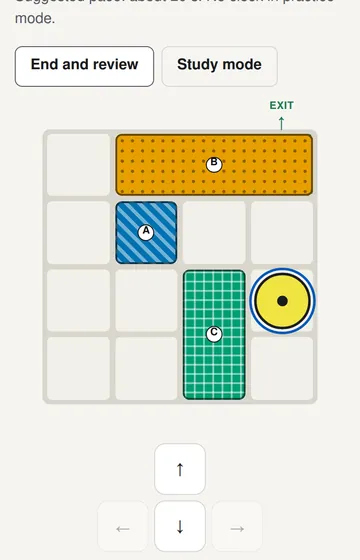
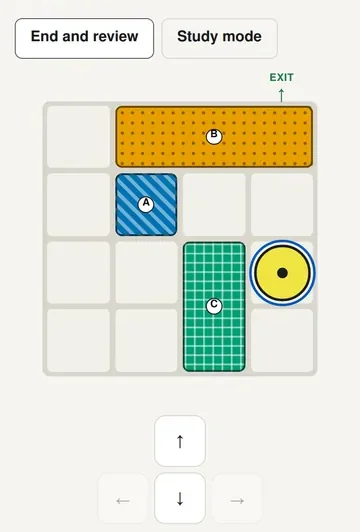
home: crop CogPrep board image, number refresh

diff --git a/work/usage/index.html b/work/usage/index.html
@@ -188,7 +188,7 @@
     <p class="deck">Every token my agents read, cached, and generated across 9router, Hermes direct Claude, and Claude Code transcripts.</p>
 
     <div class="panel telemetry-bar">
-      <p class="small muted">Last probed: <span class="mono">2026-10-18T18:11:42Z</span> &middot; Tracking window: <span class="mono">2026-09-13</span> to <span class="mono">2026-10-18</span> (<span class="mono">36</span> days). The window starts on 2026-09-13, the first day any source logged tokens.</p>
+      <p class="small muted">Last probed: <span class="mono">2026-10-18T18:23:46Z</span> &middot; Tracking window: <span class="mono">2026-09-13</span> to <span class="mono">2026-10-18</span> (<span class="mono">36</span> days). The window starts on 2026-09-13, the first day any source logged tokens.</p>
     </div>
 
     <!-- Hero Stats Row -->
@@ -202,11 +202,11 @@
         <span class="stat-lbl">Prompt cache hit rate</span>
       </div>
       <div class="stat-item">
-        <span class="stat-val">57.1 M</span>
+        <span class="stat-val">57.2 M</span>
         <span class="stat-lbl">Generated output (0.60%)</span>
       </div>
       <div class="stat-item">
-        <span class="stat-val">$4,123.86</span>
+        <span class="stat-val">$4,123.90</span>
         <span class="stat-lbl">List price equivalent (USD)</span>
       </div>
     </div>
@@ -237,7 +237,7 @@
           </div>
           <div class="comp-legend-item">
             <span class="comp-legend-swatch comp-legend-swatch--output" aria-hidden="true"></span>
-            <div class="comp-legend-text"><span class="lbl">Output</span> <span class="val">57.1 M</span> <span class="share">0.60%</span></div>
+            <div class="comp-legend-text"><span class="lbl">Output</span> <span class="val">57.2 M</span> <span class="share">0.60%</span></div>
           </div>
         </div>
       </div>
@@ -258,7 +258,7 @@
           <tbody>
           <tr>
             <th scope="row">Fresh input</th>
-            <td class="mono">725,188,826</td>
+            <td class="mono">725,193,649</td>
             <td class="mono">7.64%</td>
             <td>Tokens sent to models without a provider cache hit</td>
           </tr>
@@ -276,13 +276,13 @@
           </tr>
           <tr>
             <th scope="row">Output</th>
-            <td class="mono">57,147,656</td>
+            <td class="mono">57,150,187</td>
             <td class="mono">0.60%</td>
             <td>Generated completion tokens (includes 4,253,496 reasoning tokens on supported models)</td>
           </tr>
           <tr class="table-total">
             <th scope="row">Total</th>
-            <td class="mono">9,488,234,158</td>
+            <td class="mono">9,488,241,512</td>
             <td class="mono">100.00%</td>
             <td>Exact integer sum across all four components</td>
           </tr>
@@ -317,14 +317,14 @@
           <tr>
             <th scope="row">9router proxy</th>
             <td>Gemini Flash, Claude Sonnet and a few other models over an OpenAI style API</td>
-            <td class="mono">78,046</td>
-            <td class="mono">724,113,941</td>
+            <td class="mono">78,054</td>
+            <td class="mono">724,118,764</td>
             <td class="mono">5,735,695,266</td>
             <td class="mono">0</td>
-            <td class="mono">33,979,263</td>
-            <td class="mono">6,493,788,470</td>
+            <td class="mono">33,981,794</td>
+            <td class="mono">6,493,795,824</td>
             <td class="mono">88.8%</td>
-            <td class="mono">$2,305.41</td>
+            <td class="mono">$2,305.45</td>
           </tr>
           <tr>
             <th scope="row">Hermes direct</th>
@@ -353,14 +353,14 @@
           <tr class="table-total">
             <th scope="row">Total</th>
             <td>All three telemetry streams combined</td>
-            <td class="mono">95,315</td>
-            <td class="mono">725,188,826</td>
+            <td class="mono">95,323</td>
+            <td class="mono">725,193,649</td>
             <td class="mono">8,486,365,862</td>
             <td class="mono">219,531,814</td>
-            <td class="mono">57,147,656</td>
-            <td class="mono">9,488,234,158</td>
+            <td class="mono">57,150,187</td>
+            <td class="mono">9,488,241,512</td>
             <td class="mono">90.0%</td>
-            <td class="mono">$4,123.86</td>
+            <td class="mono">$4,123.90</td>
           </tr>
           </tbody>
         </table>
@@ -396,15 +396,15 @@
           <tr>
             <th scope="row">Gemini Flash</th>
             <td>ninerouter</td>
-            <td class="mono">72,935</td>
-            <td class="mono">677,875,594</td>
+            <td class="mono">72,943</td>
+            <td class="mono">677,880,417</td>
             <td class="mono">5,469,428,755</td>
             <td class="mono">n/r</td>
-            <td class="mono">32,311,204</td>
-            <td class="mono">6,179,615,553</td>
+            <td class="mono">32,313,735</td>
+            <td class="mono">6,179,622,907</td>
             <td class="mono">65.13%</td>
             <td class="mono">89.0%</td>
-            <td class="mono">$2,086.66</td>
+            <td class="mono">$2,086.69</td>
           </tr>
           <tr>
             <th scope="row">Claude Opus</th>
@@ -487,15 +487,15 @@
           <tr class="table-total">
             <th scope="row">Total</th>
             <td>All model families combined</td>
-            <td class="mono">95,315</td>
-            <td class="mono">725,188,826</td>
+            <td class="mono">95,323</td>
+            <td class="mono">725,193,649</td>
             <td class="mono">8,486,365,862</td>
             <td class="mono">219,531,814</td>
-            <td class="mono">57,147,656</td>
-            <td class="mono">9,488,234,158</td>
+            <td class="mono">57,150,187</td>
+            <td class="mono">9,488,241,512</td>
             <td class="mono">100.00%</td>
             <td class="mono">90.0%</td>
-            <td class="mono">$4,123.86</td>
+            <td class="mono">$4,123.90</td>
           </tr>
           </tbody>
         </table>
@@ -520,7 +520,7 @@
         </tr>
       </thead>
       <tbody>
-        <tr><th scope="row" aria-hidden="true">Mon</th><td class="is-void" aria-hidden="true"></td><td data-date="2026-09-14" data-value="0" data-level="0" data-detail="Mon 14 Sep &middot; 0 total &middot; fresh 0 &middot; cached 0 &middot; write 0 &middot; output 0 &middot; 0 calls" role="gridcell" aria-label="Mon 14 Sep: 0 tokens"></td><td data-date="2026-09-21" data-value="53629920" data-level="1" data-detail="Mon 21 Sep &middot; 53.6M total &middot; fresh 9.8M &middot; cached 43.1M &middot; write 223.1k &middot; output 591.6k &middot; 1,272 calls" role="gridcell" aria-label="Mon 21 Sep: 53.6 M tokens"></td><td data-date="2026-09-28" data-value="340072182" data-level="3" data-detail="Mon 28 Sep &middot; 340.1M total &middot; fresh 45.9M &middot; cached 291.3M &middot; write 335.2k &middot; output 2.5M &middot; 3,229 calls" role="gridcell" aria-label="Mon 28 Sep: 340.1 M tokens"></td><td data-date="2026-10-05" data-value="498170107" data-level="4" data-detail="Mon 5 Oct &middot; 498.2M total &middot; fresh 41.3M &middot; cached 447.4M &middot; write 6.6M &middot; output 2.8M &middot; 4,031 calls" role="gridcell" aria-label="Mon 5 Oct: 498.2 M tokens"></td><td data-date="2026-10-12" data-value="388531630" data-level="3" data-detail="Mon 12 Oct &middot; 388.5M total &middot; fresh 33.3M &middot; cached 354.2M &middot; write 0 &middot; output 1.0M &middot; 4,583 calls" role="gridcell" aria-label="Mon 12 Oct: 388.5 M tokens"></td></tr><tr><th scope="row" aria-hidden="true"></th><td class="is-void" aria-hidden="true"></td><td data-date="2026-09-15" data-value="11274" data-level="1" data-detail="Tue 15 Sep &middot; 11.3k total &middot; fresh 4.7k &middot; cached 4.1k &middot; write 0 &middot; output 2.5k &middot; 12 calls" role="gridcell" aria-label="Tue 15 Sep: 11,274 tokens"></td><td data-date="2026-09-22" data-value="171300441" data-level="2" data-detail="Tue 22 Sep &middot; 171.3M total &middot; fresh 26.8M &middot; cached 142.2M &middot; write 174.1k &middot; output 2.1M &middot; 2,337 calls" role="gridcell" aria-label="Tue 22 Sep: 171.3 M tokens"></td><td data-date="2026-09-29" data-value="191055436" data-level="2" data-detail="Tue 29 Sep &middot; 191.1M total &middot; fresh 21.5M &middot; cached 167.9M &middot; write 247.0k &middot; output 1.4M &middot; 2,153 calls" role="gridcell" aria-label="Tue 29 Sep: 191.1 M tokens"></td><td data-date="2026-10-06" data-value="593322083" data-level="4" data-detail="Tue 6 Oct &middot; 593.3M total &middot; fresh 49.4M &middot; cached 539.5M &middot; write 1.7M &middot; output 2.7M &middot; 6,964 calls" role="gridcell" aria-label="Tue 6 Oct: 593.3 M tokens"></td><td data-date="2026-10-13" data-value="589855580" data-level="4" data-detail="Tue 13 Oct &middot; 589.9M total &middot; fresh 80.3M &middot; cached 507.3M &middot; write 217.1k &middot; output 2.1M &middot; 8,837 calls" role="gridcell" aria-label="Tue 13 Oct: 589.9 M tokens"></td></tr><tr><th scope="row" aria-hidden="true">Wed</th><td class="is-void" aria-hidden="true"></td><td data-date="2026-09-16" data-value="40822997" data-level="1" data-detail="Wed 16 Sep &middot; 40.8M total &middot; fresh 11.5M &middot; cached 29.2M &middot; write 0 &middot; output 169.4k &middot; 735 calls" role="gridcell" aria-label="Wed 16 Sep: 40.8 M tokens"></td><td data-date="2026-09-23" data-value="199928362" data-level="2" data-detail="Wed 23 Sep &middot; 199.9M total &middot; fresh 23.2M &middot; cached 168.8M &middot; write 6.5M &middot; output 1.4M &middot; 1,765 calls" role="gridcell" aria-label="Wed 23 Sep: 199.9 M tokens"></td><td data-date="2026-09-30" data-value="169857417" data-level="2" data-detail="Wed 30 Sep &middot; 169.9M total &middot; fresh 7.4M &middot; cached 146.7M &middot; write 14.2M &middot; output 1.5M &middot; 1,993 calls" role="gridcell" aria-label="Wed 30 Sep: 169.9 M tokens"></td><td data-date="2026-10-07" data-value="761531053" data-level="4" data-detail="Wed 7 Oct &middot; 761.5M total &middot; fresh 50.2M &middot; cached 682.6M &middot; write 25.4M &middot; output 3.4M &middot; 8,321 calls" role="gridcell" aria-label="Wed 7 Oct: 761.5 M tokens"></td><td data-date="2026-10-14" data-value="30484055" data-level="1" data-detail="Wed 14 Oct &middot; 30.5M total &middot; fresh 2.9M &middot; cached 27.5M &middot; write 92.0k &middot; output 69.8k &middot; 516 calls" role="gridcell" aria-label="Wed 14 Oct: 30.5 M tokens"></td></tr><tr><th scope="row" aria-hidden="true"></th><td class="is-void" aria-hidden="true"></td><td data-date="2026-09-17" data-value="65046308" data-level="2" data-detail="Thu 17 Sep &middot; 65.0M total &middot; fresh 15.8M &middot; cached 49.0M &middot; write 0 &middot; output 192.2k &middot; 721 calls" role="gridcell" aria-label="Thu 17 Sep: 65.0 M tokens"></td><td data-date="2026-09-24" data-value="154884930" data-level="2" data-detail="Thu 24 Sep &middot; 154.9M total &middot; fresh 16.4M &middot; cached 135.8M &middot; write 1.6M &middot; output 1.1M &middot; 2,165 calls" role="gridcell" aria-label="Thu 24 Sep: 154.9 M tokens"></td><td data-date="2026-10-01" data-value="217602879" data-level="3" data-detail="Thu 1 Oct &middot; 217.6M total &middot; fresh 14.6M &middot; cached 191.5M &middot; write 9.5M &middot; output 2.1M &middot; 2,406 calls" role="gridcell" aria-label="Thu 1 Oct: 217.6 M tokens"></td><td data-date="2026-10-08" data-value="448012349" data-level="4" data-detail="Thu 8 Oct &middot; 448.0M total &middot; fresh 26.5M &middot; cached 412.1M &middot; write 6.6M &middot; output 2.8M &middot; 4,266 calls" role="gridcell" aria-label="Thu 8 Oct: 448.0 M tokens"></td><td data-date="2026-10-15" data-value="279066240" data-level="3" data-detail="Thu 15 Oct &middot; 279.1M total &middot; fresh 3.5M &middot; cached 266.1M &middot; write 7.4M &middot; output 2.0M &middot; 2,525 calls" role="gridcell" aria-label="Thu 15 Oct: 279.1 M tokens"></td></tr><tr><th scope="row" aria-hidden="true">Fri</th><td class="is-void" aria-hidden="true"></td><td data-date="2026-09-18" data-value="48685117" data-level="1" data-detail="Fri 18 Sep &middot; 48.7M total &middot; fresh 11.6M &middot; cached 36.6M &middot; write 0 &middot; output 471.2k &middot; 1,205 calls" role="gridcell" aria-label="Fri 18 Sep: 48.7 M tokens"></td><td data-date="2026-09-25" data-value="78410341" data-level="2" data-detail="Fri 25 Sep &middot; 78.4M total &middot; fresh 12.5M &middot; cached 65.2M &middot; write 60.0k &middot; output 659.0k &middot; 1,122 calls" role="gridcell" aria-label="Fri 25 Sep: 78.4 M tokens"></td><td data-date="2026-10-02" data-value="389944886" data-level="3" data-detail="Fri 2 Oct &middot; 389.9M total &middot; fresh 40.2M &middot; cached 336.1M &middot; write 10.0M &middot; output 3.6M &middot; 3,593 calls" role="gridcell" aria-label="Fri 2 Oct: 389.9 M tokens"></td><td data-date="2026-10-09" data-value="386147332" data-level="3" data-detail="Fri 9 Oct &middot; 386.1M total &middot; fresh 20.7M &middot; cached 356.6M &middot; write 6.3M &middot; output 2.5M &middot; 3,295 calls" role="gridcell" aria-label="Fri 9 Oct: 386.1 M tokens"></td><td data-date="2026-10-16" data-value="415439670" data-level="3" data-detail="Fri 16 Oct &middot; 415.4M total &middot; fresh 9.4M &middot; cached 397.2M &middot; write 6.8M &middot; output 2.1M &middot; 4,119 calls" role="gridcell" aria-label="Fri 16 Oct: 415.4 M tokens"></td></tr><tr><th scope="row" aria-hidden="true"></th><td class="is-void" aria-hidden="true"></td><td data-date="2026-09-19" data-value="32014854" data-level="1" data-detail="Sat 19 Sep &middot; 32.0M total &middot; fresh 7.6M &middot; cached 24.0M &middot; write 0 &middot; output 399.7k &middot; 980 calls" role="gridcell" aria-label="Sat 19 Sep: 32.0 M tokens"></td><td data-date="2026-09-26" data-value="23220572" data-level="1" data-detail="Sat 26 Sep &middot; 23.2M total &middot; fresh 6.8M &middot; cached 16.3M &middot; write 9.1k &middot; output 139.3k &middot; 234 calls" role="gridcell" aria-label="Sat 26 Sep: 23.2 M tokens"></td><td data-date="2026-10-03" data-value="515394075" data-level="4" data-detail="Sat 3 Oct &middot; 515.4M total &middot; fresh 41.1M &middot; cached 447.2M &middot; write 23.2M &middot; output 3.9M &middot; 4,324 calls" role="gridcell" aria-label="Sat 3 Oct: 515.4 M tokens"></td><td data-date="2026-10-10" data-value="708233893" data-level="4" data-detail="Sat 10 Oct &middot; 708.2M total &middot; fresh 18.6M &middot; cached 658.7M &middot; write 27.0M &middot; output 3.9M &middot; 3,917 calls" role="gridcell" aria-label="Sat 10 Oct: 708.2 M tokens"></td><td data-date="2026-10-17" data-value="207329398" data-level="2" data-detail="Sat 17 Oct &middot; 207.3M total &middot; fresh 1.3M &middot; cached 198.0M &middot; write 7.1M &middot; output 939.0k &middot; 1,353 calls" data-selected="true" aria-selected="true" role="gridcell" aria-label="Sat 17 Oct: 207.3 M tokens"></td></tr><tr><th scope="row" aria-hidden="true">Sun</th><td data-date="2026-09-13" data-value="0" data-level="0" data-detail="Sun 13 Sep &middot; 0 total &middot; fresh 0 &middot; cached 0 &middot; write 0 &middot; output 0 &middot; 0 calls" role="gridcell" aria-label="Sun 13 Sep: 0 tokens"></td><td data-date="2026-09-20" data-value="10125765" data-level="1" data-detail="Sun 20 Sep &middot; 10.1M total &middot; fresh 1.4M &middot; cached 8.6M &middot; write 0 &middot; output 46.0k &middot; 222 calls" role="gridcell" aria-label="Sun 20 Sep: 10.1 M tokens"></td><td data-date="2026-09-27" data-value="65159776" data-level="2" data-detail="Sun 27 Sep &middot; 65.2M total &middot; fresh 11.2M &middot; cached 53.3M &middot; write 90.9k &middot; output 598.5k &middot; 919 calls" role="gridcell" aria-label="Sun 27 Sep: 65.2 M tokens"></td><td data-date="2026-10-04" data-value="251396568" data-level="3" data-detail="Sun 4 Oct &middot; 251.4M total &middot; fresh 19.4M &middot; cached 225.5M &middot; write 4.8M &middot; output 1.7M &middot; 2,877 calls" role="gridcell" aria-label="Sun 4 Oct: 251.4 M tokens"></td><td data-date="2026-10-11" data-value="452510282" data-level="4" data-detail="Sun 11 Oct &middot; 452.5M total &middot; fresh 33.6M &middot; cached 404.1M &middot; write 12.2M &middot; output 2.5M &middot; 4,144 calls" role="gridcell" aria-label="Sun 11 Oct: 452.5 M tokens"></td><td data-date="2026-10-18" data-value="711036386" data-level="4" data-today="true" data-detail="Sun 18 Oct &middot; 711.0M total &middot; fresh 9.4M &middot; cached 656.8M &middot; write 41.2M &middot; output 3.7M &middot; 4,180 calls" role="gridcell" aria-label="Sun 18 Oct: 711.0 M tokens (today)"></td></tr>
+        <tr><th scope="row" aria-hidden="true">Mon</th><td class="is-void" aria-hidden="true"></td><td data-date="2026-09-14" data-value="0" data-level="0" data-detail="Mon 14 Sep &middot; 0 total &middot; fresh 0 &middot; cached 0 &middot; write 0 &middot; output 0 &middot; 0 calls" role="gridcell" aria-label="Mon 14 Sep: 0 tokens"></td><td data-date="2026-09-21" data-value="53629920" data-level="1" data-detail="Mon 21 Sep &middot; 53.6M total &middot; fresh 9.8M &middot; cached 43.1M &middot; write 223.1k &middot; output 591.6k &middot; 1,272 calls" role="gridcell" aria-label="Mon 21 Sep: 53.6 M tokens"></td><td data-date="2026-09-28" data-value="340072182" data-level="3" data-detail="Mon 28 Sep &middot; 340.1M total &middot; fresh 45.9M &middot; cached 291.3M &middot; write 335.2k &middot; output 2.5M &middot; 3,229 calls" role="gridcell" aria-label="Mon 28 Sep: 340.1 M tokens"></td><td data-date="2026-10-05" data-value="498170107" data-level="4" data-detail="Mon 5 Oct &middot; 498.2M total &middot; fresh 41.3M &middot; cached 447.4M &middot; write 6.6M &middot; output 2.8M &middot; 4,031 calls" role="gridcell" aria-label="Mon 5 Oct: 498.2 M tokens"></td><td data-date="2026-10-12" data-value="388531630" data-level="3" data-detail="Mon 12 Oct &middot; 388.5M total &middot; fresh 33.3M &middot; cached 354.2M &middot; write 0 &middot; output 1.0M &middot; 4,583 calls" role="gridcell" aria-label="Mon 12 Oct: 388.5 M tokens"></td></tr><tr><th scope="row" aria-hidden="true"></th><td class="is-void" aria-hidden="true"></td><td data-date="2026-09-15" data-value="11274" data-level="1" data-detail="Tue 15 Sep &middot; 11.3k total &middot; fresh 4.7k &middot; cached 4.1k &middot; write 0 &middot; output 2.5k &middot; 12 calls" role="gridcell" aria-label="Tue 15 Sep: 11,274 tokens"></td><td data-date="2026-09-22" data-value="171300441" data-level="2" data-detail="Tue 22 Sep &middot; 171.3M total &middot; fresh 26.8M &middot; cached 142.2M &middot; write 174.1k &middot; output 2.1M &middot; 2,337 calls" role="gridcell" aria-label="Tue 22 Sep: 171.3 M tokens"></td><td data-date="2026-09-29" data-value="191055436" data-level="2" data-detail="Tue 29 Sep &middot; 191.1M total &middot; fresh 21.5M &middot; cached 167.9M &middot; write 247.0k &middot; output 1.4M &middot; 2,153 calls" role="gridcell" aria-label="Tue 29 Sep: 191.1 M tokens"></td><td data-date="2026-10-06" data-value="593322083" data-level="4" data-detail="Tue 6 Oct &middot; 593.3M total &middot; fresh 49.4M &middot; cached 539.5M &middot; write 1.7M &middot; output 2.7M &middot; 6,964 calls" role="gridcell" aria-label="Tue 6 Oct: 593.3 M tokens"></td><td data-date="2026-10-13" data-value="589855580" data-level="4" data-detail="Tue 13 Oct &middot; 589.9M total &middot; fresh 80.3M &middot; cached 507.3M &middot; write 217.1k &middot; output 2.1M &middot; 8,837 calls" role="gridcell" aria-label="Tue 13 Oct: 589.9 M tokens"></td></tr><tr><th scope="row" aria-hidden="true">Wed</th><td class="is-void" aria-hidden="true"></td><td data-date="2026-09-16" data-value="40822997" data-level="1" data-detail="Wed 16 Sep &middot; 40.8M total &middot; fresh 11.5M &middot; cached 29.2M &middot; write 0 &middot; output 169.4k &middot; 735 calls" role="gridcell" aria-label="Wed 16 Sep: 40.8 M tokens"></td><td data-date="2026-09-23" data-value="199928362" data-level="2" data-detail="Wed 23 Sep &middot; 199.9M total &middot; fresh 23.2M &middot; cached 168.8M &middot; write 6.5M &middot; output 1.4M &middot; 1,765 calls" role="gridcell" aria-label="Wed 23 Sep: 199.9 M tokens"></td><td data-date="2026-09-30" data-value="169857417" data-level="2" data-detail="Wed 30 Sep &middot; 169.9M total &middot; fresh 7.4M &middot; cached 146.7M &middot; write 14.2M &middot; output 1.5M &middot; 1,993 calls" role="gridcell" aria-label="Wed 30 Sep: 169.9 M tokens"></td><td data-date="2026-10-07" data-value="761531053" data-level="4" data-detail="Wed 7 Oct &middot; 761.5M total &middot; fresh 50.2M &middot; cached 682.6M &middot; write 25.4M &middot; output 3.4M &middot; 8,321 calls" role="gridcell" aria-label="Wed 7 Oct: 761.5 M tokens"></td><td data-date="2026-10-14" data-value="30484055" data-level="1" data-detail="Wed 14 Oct &middot; 30.5M total &middot; fresh 2.9M &middot; cached 27.5M &middot; write 92.0k &middot; output 69.8k &middot; 516 calls" role="gridcell" aria-label="Wed 14 Oct: 30.5 M tokens"></td></tr><tr><th scope="row" aria-hidden="true"></th><td class="is-void" aria-hidden="true"></td><td data-date="2026-09-17" data-value="65046308" data-level="2" data-detail="Thu 17 Sep &middot; 65.0M total &middot; fresh 15.8M &middot; cached 49.0M &middot; write 0 &middot; output 192.2k &middot; 721 calls" role="gridcell" aria-label="Thu 17 Sep: 65.0 M tokens"></td><td data-date="2026-09-24" data-value="154884930" data-level="2" data-detail="Thu 24 Sep &middot; 154.9M total &middot; fresh 16.4M &middot; cached 135.8M &middot; write 1.6M &middot; output 1.1M &middot; 2,165 calls" role="gridcell" aria-label="Thu 24 Sep: 154.9 M tokens"></td><td data-date="2026-10-01" data-value="217602879" data-level="3" data-detail="Thu 1 Oct &middot; 217.6M total &middot; fresh 14.6M &middot; cached 191.5M &middot; write 9.5M &middot; output 2.1M &middot; 2,406 calls" role="gridcell" aria-label="Thu 1 Oct: 217.6 M tokens"></td><td data-date="2026-10-08" data-value="448012349" data-level="4" data-detail="Thu 8 Oct &middot; 448.0M total &middot; fresh 26.5M &middot; cached 412.1M &middot; write 6.6M &middot; output 2.8M &middot; 4,266 calls" role="gridcell" aria-label="Thu 8 Oct: 448.0 M tokens"></td><td data-date="2026-10-15" data-value="279066240" data-level="3" data-detail="Thu 15 Oct &middot; 279.1M total &middot; fresh 3.5M &middot; cached 266.1M &middot; write 7.4M &middot; output 2.0M &middot; 2,525 calls" role="gridcell" aria-label="Thu 15 Oct: 279.1 M tokens"></td></tr><tr><th scope="row" aria-hidden="true">Fri</th><td class="is-void" aria-hidden="true"></td><td data-date="2026-09-18" data-value="48685117" data-level="1" data-detail="Fri 18 Sep &middot; 48.7M total &middot; fresh 11.6M &middot; cached 36.6M &middot; write 0 &middot; output 471.2k &middot; 1,205 calls" role="gridcell" aria-label="Fri 18 Sep: 48.7 M tokens"></td><td data-date="2026-09-25" data-value="78410341" data-level="2" data-detail="Fri 25 Sep &middot; 78.4M total &middot; fresh 12.5M &middot; cached 65.2M &middot; write 60.0k &middot; output 659.0k &middot; 1,122 calls" role="gridcell" aria-label="Fri 25 Sep: 78.4 M tokens"></td><td data-date="2026-10-02" data-value="389944886" data-level="3" data-detail="Fri 2 Oct &middot; 389.9M total &middot; fresh 40.2M &middot; cached 336.1M &middot; write 10.0M &middot; output 3.6M &middot; 3,593 calls" role="gridcell" aria-label="Fri 2 Oct: 389.9 M tokens"></td><td data-date="2026-10-09" data-value="386147332" data-level="3" data-detail="Fri 9 Oct &middot; 386.1M total &middot; fresh 20.7M &middot; cached 356.6M &middot; write 6.3M &middot; output 2.5M &middot; 3,295 calls" role="gridcell" aria-label="Fri 9 Oct: 386.1 M tokens"></td><td data-date="2026-10-16" data-value="415439670" data-level="3" data-detail="Fri 16 Oct &middot; 415.4M total &middot; fresh 9.4M &middot; cached 397.2M &middot; write 6.8M &middot; output 2.1M &middot; 4,119 calls" role="gridcell" aria-label="Fri 16 Oct: 415.4 M tokens"></td></tr><tr><th scope="row" aria-hidden="true"></th><td class="is-void" aria-hidden="true"></td><td data-date="2026-09-19" data-value="32014854" data-level="1" data-detail="Sat 19 Sep &middot; 32.0M total &middot; fresh 7.6M &middot; cached 24.0M &middot; write 0 &middot; output 399.7k &middot; 980 calls" role="gridcell" aria-label="Sat 19 Sep: 32.0 M tokens"></td><td data-date="2026-09-26" data-value="23220572" data-level="1" data-detail="Sat 26 Sep &middot; 23.2M total &middot; fresh 6.8M &middot; cached 16.3M &middot; write 9.1k &middot; output 139.3k &middot; 234 calls" role="gridcell" aria-label="Sat 26 Sep: 23.2 M tokens"></td><td data-date="2026-10-03" data-value="515394075" data-level="4" data-detail="Sat 3 Oct &middot; 515.4M total &middot; fresh 41.1M &middot; cached 447.2M &middot; write 23.2M &middot; output 3.9M &middot; 4,324 calls" role="gridcell" aria-label="Sat 3 Oct: 515.4 M tokens"></td><td data-date="2026-10-10" data-value="708233893" data-level="4" data-detail="Sat 10 Oct &middot; 708.2M total &middot; fresh 18.6M &middot; cached 658.7M &middot; write 27.0M &middot; output 3.9M &middot; 3,917 calls" role="gridcell" aria-label="Sat 10 Oct: 708.2 M tokens"></td><td data-date="2026-10-17" data-value="207329398" data-level="2" data-detail="Sat 17 Oct &middot; 207.3M total &middot; fresh 1.3M &middot; cached 198.0M &middot; write 7.1M &middot; output 939.0k &middot; 1,353 calls" data-selected="true" aria-selected="true" role="gridcell" aria-label="Sat 17 Oct: 207.3 M tokens"></td></tr><tr><th scope="row" aria-hidden="true">Sun</th><td data-date="2026-09-13" data-value="0" data-level="0" data-detail="Sun 13 Sep &middot; 0 total &middot; fresh 0 &middot; cached 0 &middot; write 0 &middot; output 0 &middot; 0 calls" role="gridcell" aria-label="Sun 13 Sep: 0 tokens"></td><td data-date="2026-09-20" data-value="10125765" data-level="1" data-detail="Sun 20 Sep &middot; 10.1M total &middot; fresh 1.4M &middot; cached 8.6M &middot; write 0 &middot; output 46.0k &middot; 222 calls" role="gridcell" aria-label="Sun 20 Sep: 10.1 M tokens"></td><td data-date="2026-09-27" data-value="65159776" data-level="2" data-detail="Sun 27 Sep &middot; 65.2M total &middot; fresh 11.2M &middot; cached 53.3M &middot; write 90.9k &middot; output 598.5k &middot; 919 calls" role="gridcell" aria-label="Sun 27 Sep: 65.2 M tokens"></td><td data-date="2026-10-04" data-value="251396568" data-level="3" data-detail="Sun 4 Oct &middot; 251.4M total &middot; fresh 19.4M &middot; cached 225.5M &middot; write 4.8M &middot; output 1.7M &middot; 2,877 calls" role="gridcell" aria-label="Sun 4 Oct: 251.4 M tokens"></td><td data-date="2026-10-11" data-value="452510282" data-level="4" data-detail="Sun 11 Oct &middot; 452.5M total &middot; fresh 33.6M &middot; cached 404.1M &middot; write 12.2M &middot; output 2.5M &middot; 4,144 calls" role="gridcell" aria-label="Sun 11 Oct: 452.5 M tokens"></td><td data-date="2026-10-18" data-value="711043740" data-level="4" data-today="true" data-detail="Sun 18 Oct &middot; 711.0M total &middot; fresh 9.4M &middot; cached 656.8M &middot; write 41.2M &middot; output 3.7M &middot; 4,188 calls" role="gridcell" aria-label="Sun 18 Oct: 711.0 M tokens (today)"></td></tr>
       </tbody>
     </table>
   </div>
@@ -678,12 +678,12 @@
               </tr>
               <tr>
                 <th scope="row">Sun 18 Oct (partial)</th>
-                <td class="mono">711,036,386</td>
-                <td class="mono">9,382,587</td>
+                <td class="mono">711,043,740</td>
+                <td class="mono">9,387,410</td>
                 <td class="mono">656,765,477</td>
                 <td class="mono">41,199,443</td>
-                <td class="mono">3,688,879</td>
-                <td class="mono">4,180</td>
+                <td class="mono">3,691,410</td>
+                <td class="mono">4,188</td>
               </tr>
             </tbody>
           </table>
@@ -694,7 +694,7 @@
     <!-- Section 5: List Price vs Subscription -->
     <section class="section" id="cost" aria-labelledby="h-cost">
       <h2 id="h-cost">List price vs subscription</h2>
-      <p>At published list prices this volume comes to about $4,123.86 USD: $2,305.41 for proxied calls as computed by the proxy, and $1,818.45 as estimated by my runtime for direct Claude calls. I did not pay that figure. The direct Claude calls run on a flat subscription. I do not publish my bill, so read the list price as the honest upper bound and the subscription as the reason a personal system at this volume is affordable.</p>
+      <p>At published list prices this volume comes to about $4,123.90 USD: $2,305.45 for proxied calls as computed by the proxy, and $1,818.45 as estimated by my runtime for direct Claude calls. I did not pay that figure. The direct Claude calls run on a flat subscription. I do not publish my bill, so read the list price as the honest upper bound and the subscription as the reason a personal system at this volume is affordable.</p>
     </section>
 
     <!-- Section 6: Why the Cache Rate Matters -->

diff --git a/work/fast-decisions/index.html b/work/fast-decisions/index.html
@@ -197,7 +197,7 @@
 
       <div class="metrics-grid" style="display:grid;grid-template-columns:repeat(auto-fit,minmax(140px,1fr));gap:var(--s2);margin-block:var(--s3);">
         <div class="panel" style="padding:var(--s3);text-align:center;">
-          <div style="font-size:var(--fs-xl);font-weight:700;" class="mono">149,341</div>
+          <div style="font-size:var(--fs-xl);font-weight:700;" class="mono">149,429</div>
           <div class="small muted">Total decisions</div>
         </div>
         <div class="panel" style="padding:var(--s3);text-align:center;">
@@ -260,7 +260,7 @@
     <rect x="596.2" y="176.3" width="21.2" height="33.7" rx="2" fill="var(--accent)"><title>15 Oct 2026: 6,943 decisions</title></rect>
     <rect x="621.4" y="188.7" width="21.2" height="21.3" rx="2" fill="var(--accent)"><title>16 Oct 2026: 4,382 decisions</title></rect>
     <rect x="646.6" y="208.5" width="21.2" height="1.5" rx="2" fill="var(--accent)"><title>17 Oct 2026: 79 decisions</title></rect>
-    <rect x="671.8" y="208.5" width="21.2" height="1.5" rx="2" fill="var(--accent)"><title>18 Oct 2026: 243 decisions</title></rect>
+    <rect x="671.8" y="208.4" width="21.2" height="1.6" rx="2" fill="var(--accent)"><title>18 Oct 2026: 331 decisions</title></rect>
   </g>
   <g id="x-axis-labels">
     <text x="77.6" y="228" font-family="'Source Sans 3',sans-serif" font-size="11"  text-anchor="middle" style="fill:var(--muted)">21 Sep</text>
@@ -303,7 +303,7 @@
               <tr><td>15 Oct 2026</td><td>6,943</td></tr>
               <tr><td>16 Oct 2026</td><td>4,382</td></tr>
               <tr><td>17 Oct 2026</td><td>79</td></tr>
-              <tr><td>18 Oct 2026</td><td>243</td></tr>
+              <tr><td>18 Oct 2026</td><td>331</td></tr>
             </tbody>
           </table>
         </div>
@@ -322,9 +322,9 @@
           <tbody>
             <tr><td>Median answer time (p50)</td><td class="mono">313 ms</td></tr>
             <tr><td>95th percentile (p95)</td><td class="mono">714 ms</td></tr>
-            <tr><td>99th percentile (p99)</td><td class="mono">932 ms</td></tr>
+            <tr><td>99th percentile (p99)</td><td class="mono">930 ms</td></tr>
             <tr><td>Handed to fallback route</td><td class="mono">86 (0.06%)</td></tr>
-            <tr><td>Score calls / choice calls</td><td class="mono">83,469 / 65,872</td></tr>
+            <tr><td>Score calls / choice calls</td><td class="mono">83,513 / 65,916</td></tr>
           </tbody>
         </table>
       </div>
@@ -360,7 +360,7 @@
             <tr><th scope="col">Decision family</th><th scope="col">Decisions</th><th scope="col">Share</th><th scope="col">Previous route</th></tr>
           </thead>
           <tbody>
-            <tr><td>A private work workflow</td><td class="mono">122,784</td><td class="mono">82%</td><td>Chat model call</td></tr>
+            <tr><td>A private work workflow</td><td class="mono">122,872</td><td class="mono">82%</td><td>Chat model call</td></tr>
             <tr><td>Research headline relevance</td><td class="mono">25,891</td><td class="mono">17%</td><td>Chat model call</td></tr>
             <tr><td>Everything else (memory curation, email category, next action, model tier choice)</td><td class="mono">666</td><td class="mono">0.4%</td><td>Chat model call or fixed rule</td></tr>
           </tbody>
@@ -372,9 +372,9 @@
     <!-- Section 6: What it costs -->
     <section class="section" id="what-it-costs" data-ix="reveal">
       <h2>What it costs</h2>
-      <p>On a measured sample of 25,755 calls since 7 Oct 2026, the typed decision layer processed 15,357,875 input tokens and 2,861,996 output tokens (18,219,871 total tokens, about 707 tokens per call) and cost $0.6450, an average of about $0.0550 per day.</p>
+      <p>On a measured sample of 25,799 calls since 7 Oct 2026, the typed decision layer processed 15,383,705 input tokens and 2,866,924 output tokens (18,250,629 total tokens, about 707 tokens per call) and cost $0.6461, an average of about $0.0549 per day.</p>
       <p>Output tokens are free on this service; list price was $0.042 per million input tokens.</p>
-      <p>Earlier verdicts in the log are not metered for tokens. Because I do not record the tokens a chat model would have used for each decision, I do not publish an estimated reduction figure. The measured fact is narrower: 149,341 decisions were handled by this layer instead of calling a chat model.</p>
+      <p>Earlier verdicts in the log are not metered for tokens. Because I do not record the tokens a chat model would have used for each decision, I do not publish an estimated reduction figure. The measured fact is narrower: 149,429 decisions were handled by this layer instead of calling a chat model.</p>
     </section>
 
     <!-- Section 7: Where I never use it -->
@@ -405,7 +405,7 @@
     <!-- Method Note -->
     <div class="panel" style="margin-top:var(--s5);">
       <h3 style="margin-top:0;font-size:1rem;">Method note</h3>
-      <p class="small muted">Decision counts, latency percentiles, fallback counts, and call site numbers are read from the verdict log and decision registry at build time and refreshed every 6 hours. Test rows (identifiers starting with smoke, test, or probe) are excluded before counting. Times are wall-clock per call as logged by my client, including network latency. Fallback measures availability when the model returned no usable answer, not correctness against ground truth. Token and spend counts are from the meter started on 7 Oct 2026 (25,755 calls); earlier calls were not token-metered. Jev runs through its own service rather than the model gateway, so none of these calls appear in the Token ledger.</p>
+      <p class="small muted">Decision counts, latency percentiles, fallback counts, and call site numbers are read from the verdict log and decision registry at build time and refreshed every 6 hours. Test rows (identifiers starting with smoke, test, or probe) are excluded before counting. Times are wall-clock per call as logged by my client, including network latency. Fallback measures availability when the model returned no usable answer, not correctness against ground truth. Token and spend counts are from the meter started on 7 Oct 2026 (25,799 calls); earlier calls were not token-metered. Jev runs through its own service rather than the model gateway, so none of these calls appear in the Token ledger.</p>
     </div>
   </article>
 <nav class="pager wrap" aria-label="Case study navigation">

diff --git a/work/platform/index.html b/work/platform/index.html
@@ -719,7 +719,7 @@
       <div class="stats-row" style="display:grid;grid-template-columns:repeat(auto-fit,minmax(200px,1fr));gap:var(--s4);margin:var(--s6) 0;">
         <div class="panel" style="margin:0;">
           <div class="mono" style="font-size:var(--fs-xs);color:var(--muted);text-transform:uppercase;margin-bottom:var(--s2);">Total tokens</div>
-          <div style="font-size:var(--fs-xl);font-weight:700;"><data class="m" data-m="tokens_total" value="9488234158">9.49 B</data> tokens</div>
+          <div style="font-size:var(--fs-xl);font-weight:700;"><data class="m" data-m="tokens_total" value="9488241512">9.49 B</data> tokens</div>
         </div>
         <div class="panel" style="margin:0;">
           <div class="mono" style="font-size:var(--fs-xs);color:var(--muted);text-transform:uppercase;margin-bottom:var(--s2);">Cache hit rate</div>
@@ -797,7 +797,7 @@
     <text x="686.2" y="228" font-family="'Source Sans 3',sans-serif" font-size="11"  text-anchor="middle" style="fill:var(--muted)">18 Oct</text>
   </g>
 </svg>
-        <figcaption>Tokens processed by day: <data class="m" data-m="tokens_total" value="9488234158">9.49 B</data> tokens in total; <data class="m" data-m="cache_hit_rate" value="90.0">90.0%</data> of input tokens were served from cache. <button class="show-data" type="button" aria-expanded="false" aria-controls="tok-data" hidden>Show data</button></figcaption>
+        <figcaption>Tokens processed by day: <data class="m" data-m="tokens_total" value="9488241512">9.49 B</data> tokens in total; <data class="m" data-m="cache_hit_rate" value="90.0">90.0%</data> of input tokens were served from cache. <button class="show-data" type="button" aria-expanded="false" aria-controls="tok-data" hidden>Show data</button></figcaption>
         <div class="dtable sr-only sr_only" id="tok-data">
           <table>
             <thead><tr><th>Date</th><th>Tokens</th></tr></thead>
@@ -837,7 +837,7 @@
               <tr><td>15 Oct 2026</td><td><data class="m" data-m="tokens_by_day" value="279066240">279.1 M</data></td></tr>
               <tr><td>16 Oct 2026</td><td><data class="m" data-m="tokens_by_day" value="415439670">415.4 M</data></td></tr>
               <tr><td>17 Oct 2026</td><td><data class="m" data-m="tokens_by_day" value="207329398">207.3 M</data></td></tr>
-              <tr><td>18 Oct 2026</td><td><data class="m" data-m="tokens_by_day" value="711036386">711.0 M</data></td></tr>
+              <tr><td>18 Oct 2026</td><td><data class="m" data-m="tokens_by_day" value="711043740">711.0 M</data></td></tr>
             </tbody>
           </table>
         </div>
@@ -897,15 +897,15 @@
         </div>
         <div class="panel" style="margin:0;">
           <div class="mono" style="font-size:var(--fs-xs);color:var(--muted);text-transform:uppercase;margin-bottom:var(--s2);">Agent replies</div>
-          <div style="font-size:var(--fs-xl);font-weight:700;"><data class="m" data-m="messages_agent_replies" value="202434">202,434</data></div>
+          <div style="font-size:var(--fs-xl);font-weight:700;"><data class="m" data-m="messages_agent_replies" value="202456">202,456</data></div>
         </div>
         <div class="panel" style="margin:0;">
           <div class="mono" style="font-size:var(--fs-xs);color:var(--muted);text-transform:uppercase;margin-bottom:var(--s2);">Tool results</div>
-          <div style="font-size:var(--fs-xl);font-weight:700;"><data class="m" data-m="messages_tool_results" value="203662">203,662</data></div>
+          <div style="font-size:var(--fs-xl);font-weight:700;"><data class="m" data-m="messages_tool_results" value="203686">203,686</data></div>
         </div>
         <div class="panel" style="margin:0;">
           <div class="mono" style="font-size:var(--fs-xs);color:var(--muted);text-transform:uppercase;margin-bottom:var(--s2);">Total messages</div>
-          <div style="font-size:var(--fs-xl);font-weight:700;"><data class="m" data-m="messages_total" value="441375">441,375</data></div>
+          <div style="font-size:var(--fs-xl);font-weight:700;"><data class="m" data-m="messages_total" value="441421">441,421</data></div>
         </div>
       </div>
 

diff --git a/index.html b/index.html
@@ -362,7 +362,7 @@
     <article class="metric-card metric-card--compact" id="metric-card-replies">
   <details class="metric-pop" data-ix="metric_pop">
     <summary class="metric-summary" aria-haspopup="dialog" aria-expanded="false" title="Messages my agents wrote, including scheduled jobs and helper agents. I sent them 35,279 messages, most of them dictated.">
-      <div class="metric-num">202,434</div>
+      <div class="metric-num">202,456</div>
       <span class="metric-title">Agent replies</span><span class="metric-info" aria-hidden="true">i</span>
     </summary>
     <div class="metric-panel" role="region" aria-label="Agent replies breakdown">
@@ -379,11 +379,11 @@
             <div class="bar-track"><div class="bar-fill bar-human" style="width: 17%"></div></div>
           </div>
           <div class="bar-row">
-            <div class="bar-head"><span class="lbl">Agent replies</span><span class="val">202,434</span></div>
+            <div class="bar-head"><span class="lbl">Agent replies</span><span class="val">202,456</span></div>
             <div class="bar-track"><div class="bar-fill bar-agent" style="width: 100%"></div></div>
           </div>
           <div class="bar-row">
-            <div class="bar-head"><span class="lbl">Tool executions</span><span class="val">203,662</span></div>
+            <div class="bar-head"><span class="lbl">Tool executions</span><span class="val">203,686</span></div>
             <div class="bar-track"><div class="bar-fill bar-tool" style="width: 100%"></div></div>
           </div>
         </div>
@@ -482,7 +482,7 @@
       </article>
       <article class="built-card built-cogprep">
         <div class="built-media">
-          <div class="phone-frame"><img src="/assets/img/cogprep-board.webp" width="360" height="560" loading="lazy" decoding="async" alt="CogPrep Arcade Block Slide puzzle on a phone: a four by four board with a ball, three coloured blocks and the exit at the top right"></div>
+          <div class="phone-frame"><img src="/assets/img/cogprep-board.webp" width="360" height="532" loading="lazy" decoding="async" alt="CogPrep Arcade Block Slide puzzle on a phone: a four by four board with a ball, three coloured blocks and the exit at the top right"></div>
         </div>
         <div class="built-body">
           <p class="built-badge">Free to try</p>
